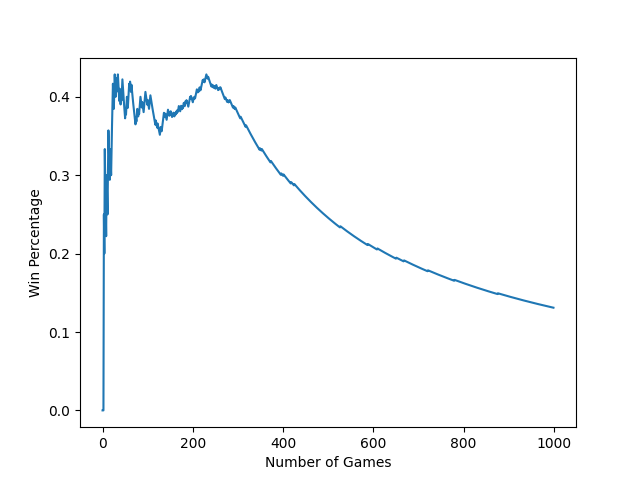
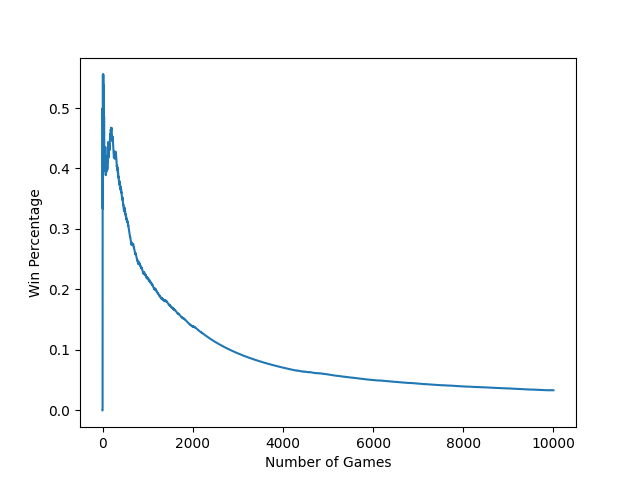
Add player randomization function

diff --git a/src/Main.py b/src/Main.py
@@ -4,16 +4,23 @@ import Environments
 import Agents
 import matplotlib.pyplot as plt
 
+def randomizePlayers():
+	PlayerX = random.randint(0,1)  # The player with the crosses always goes first.
+	PlayerO = abs(PlayerX - 1)  # PlayerO = 1 if PlayerX == 0 else 0
 
-def play(env, players, display=False):
+	return PlayerX, PlayerO
+
+def play(env, players, display=False, Random=True):
 
 	current_state = env()  # reset the environment
 
 	if display:
 		current_state.print(2)
 
-	PlayerX = random.randint(0,1)  # The player with the crosses always goes first.
-	PlayerO = 1 if PlayerX == 0 else 0
+	if Random: PlayerX, PlayerO = randomizePlayers()
+	else:
+		PlayerX = 0
+		PlayerO = 1
 
 	currentPlayer = PlayerX
 
@@ -57,14 +64,14 @@ if __name__ == '__main__':
 
 	print("Started...")
 
-	for n in range(1000):
+	for n in range(10000):
 
-		if (n+1) % (100) == 0:
+		if (n+1) % (500) == 0:
 			print("Game {}".format(n+1))
 		play(TicENV, players, display=False)
 		history.append(players[0].getPercentages())
 
-	play(TicENV, players, display=True)
+	play(TicENV, players, display=True, Random=False)
 
 	winPercentage = []
 	drawPercentage = []
@@ -100,9 +107,9 @@ if __name__ == '__main__':
 	plt.ylabel("Loss Percentage")
 	plt.savefig("cumulative_losses.png")
 
-	print("Win Percentage: {}%".format(history[-1][0]))
-	print("Loss Percentage: {}%".format(history[-1][2]))
-	print("Draw Percentage: {}%".format(history[-1][1]))
+	print("Win Percentage: {}%".format(100*history[-1][0]))
+	print("Loss Percentage: {}%".format(100*history[-1][2]))
+	print("Draw Percentage: {}%".format(100*history[-1][1]))
 
 	print("unique game scenarios: {}".format(len(players[0].masterNodes)))
 	for n in range(10):

diff --git a/README.md b/README.md
@@ -19,10 +19,10 @@ python3 Main.py
 # Test Results
 
 
-The following graph shows the Win (blue), Loss (green), and Draw (orange) percentages over 100,000 games of two Tabular Q-Learning models playing against each other.
+The following graph shows the Win (blue), Loss (green), and Draw (orange) percentages over 10,000 games of two Tabular Q-Learning models playing against each other.
 
-![cumulative_wins](src/cumulative_accuracy.png)  
-Final Win Percentage: 1.882%  
-Final Loss Percentage: 2.407%  
-Final Draw Percentage: 95.711%
+![cumulative_accuracy](src/cumulative_accuracy_for_readme.png)  
+Final Win Percentage: 3.33%  
+Final Loss Percentage: 3.74%  
+Final Draw Percentage: 92.93%
 
